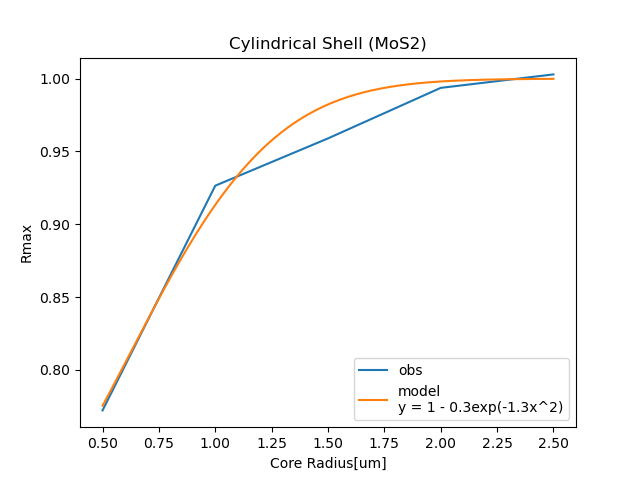
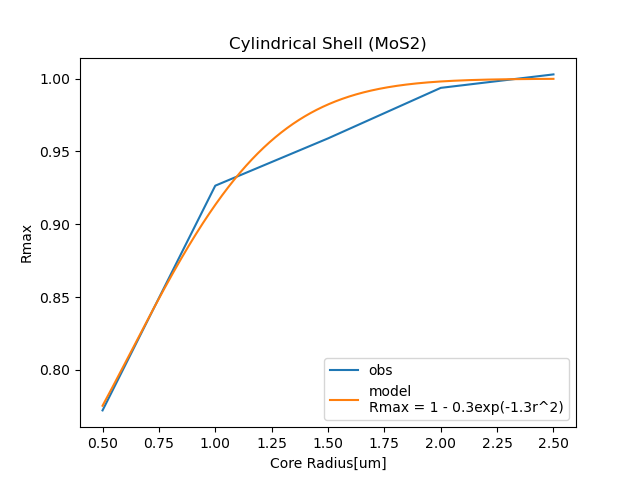
FiberAcceleration追加、MoS2fitting修正

Changed region(s): [[0.5, 0.75, 0.8438, 0.875]]

diff --git a/CaluculationParameter/FiberAcceleration.py b/CaluculationParameter/FiberAcceleration.py
@@ -1,0 +1,25 @@
+#!/usr/bin/env python3
+# -*- coding: utf-8 -*-
+"""
+Created on Wed Sep  7 09:56:28 2022
+
+@author: mark
+"""
+
+import numpy as np
+
+P = 1e-3
+rho = 19300 # Density of gold in kg / m^3 
+r = 1e-9
+m = rho * 4/3 * np.pi * r**3
+c = 2.99e8
+t = 0.001
+a = 2 * P / (m * c)
+v = a * t
+d = 0.5 * a * t ** 2
+
+print("Velocity")
+print(v/c)
+print("Distance") 
+print(d)
+

diff --git a/CylindricalShell/MoS2/Analyze_CylindricalShell_5Layer_MoS2_exp.py b/CylindricalShell/MoS2/Analyze_CylindricalShell_5Layer_MoS2_exp.py
@@ -90,10 +90,10 @@ pl.legend()
 
 print('a : {},   b : {}'.format(popt[0], popt[1]))
 
-#Smoother curves
+#Smoother curve
 pl.figure(3)
 x2 = np.linspace(0.50, 2.50, 1000)
 y2 = 1 - popt[1] * np.exp(popt[0] * x2**2)
-pl.plot(x2, y2, label = "model\ny = 1 - 0.3exp(-1.3x^2)")
+pl.plot(x2, y2, label = "model\nRmax = 1 - 0.3exp(-1.3r^2)")
 pl.legend()
 pl.show()
